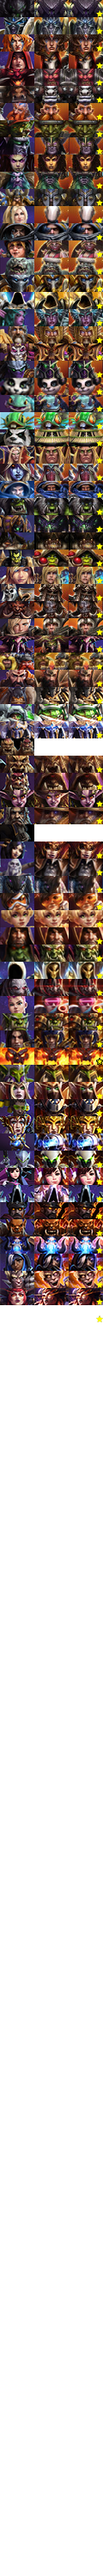
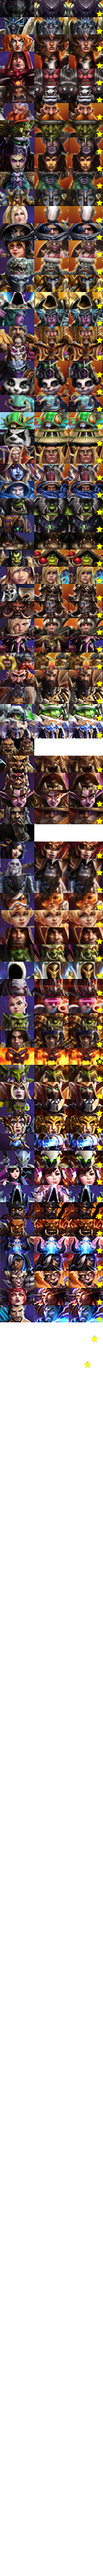
Hanzo Release
New banner, flair, and sidebar text

Changed region(s): [[0.0, 0.496, 1.0, 0.527]]

diff --git a/custom.scss b/custom.scss
@@ -598,7 +598,7 @@ a.voteWeight {
 
 div.titlebox span.number:after {
   z-index: 1;
-  content: " Life-Binders"
+  content: " Hanzo mains"
 }
 
 .titlebox .users-online {
@@ -615,7 +615,7 @@ div.titlebox span.number:after {
 
 .titlebox .users-online .number:after {
   z-index: 1;
-  content: " dropping cleansing fireballs"
+  content: " calculating simple geometry"
 }
 
 .titlebox .number,

diff --git a/user_flair/hero_flair.scss b/user_flair/hero_flair.scss
@@ -80,3 +80,4 @@
 @include hero-flair-set("ana",         73);
 @include hero-flair-set("junkrat",     74);
 @include hero-flair-set("alexstrasza", 75);
+@include hero-flair-set("hanzo",       76);
